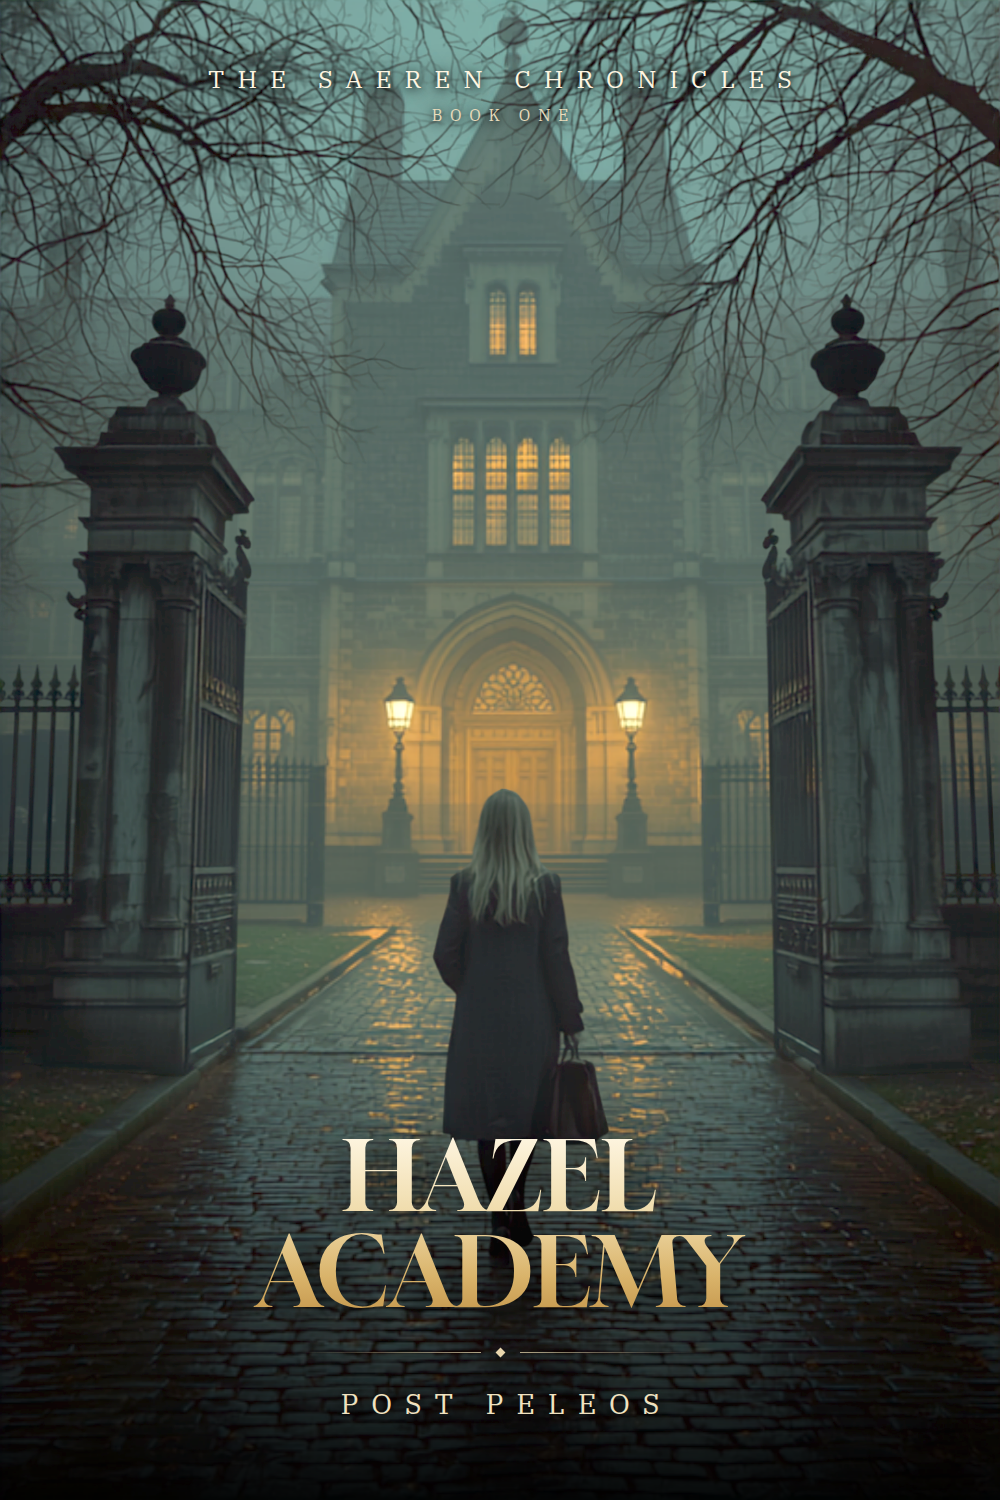
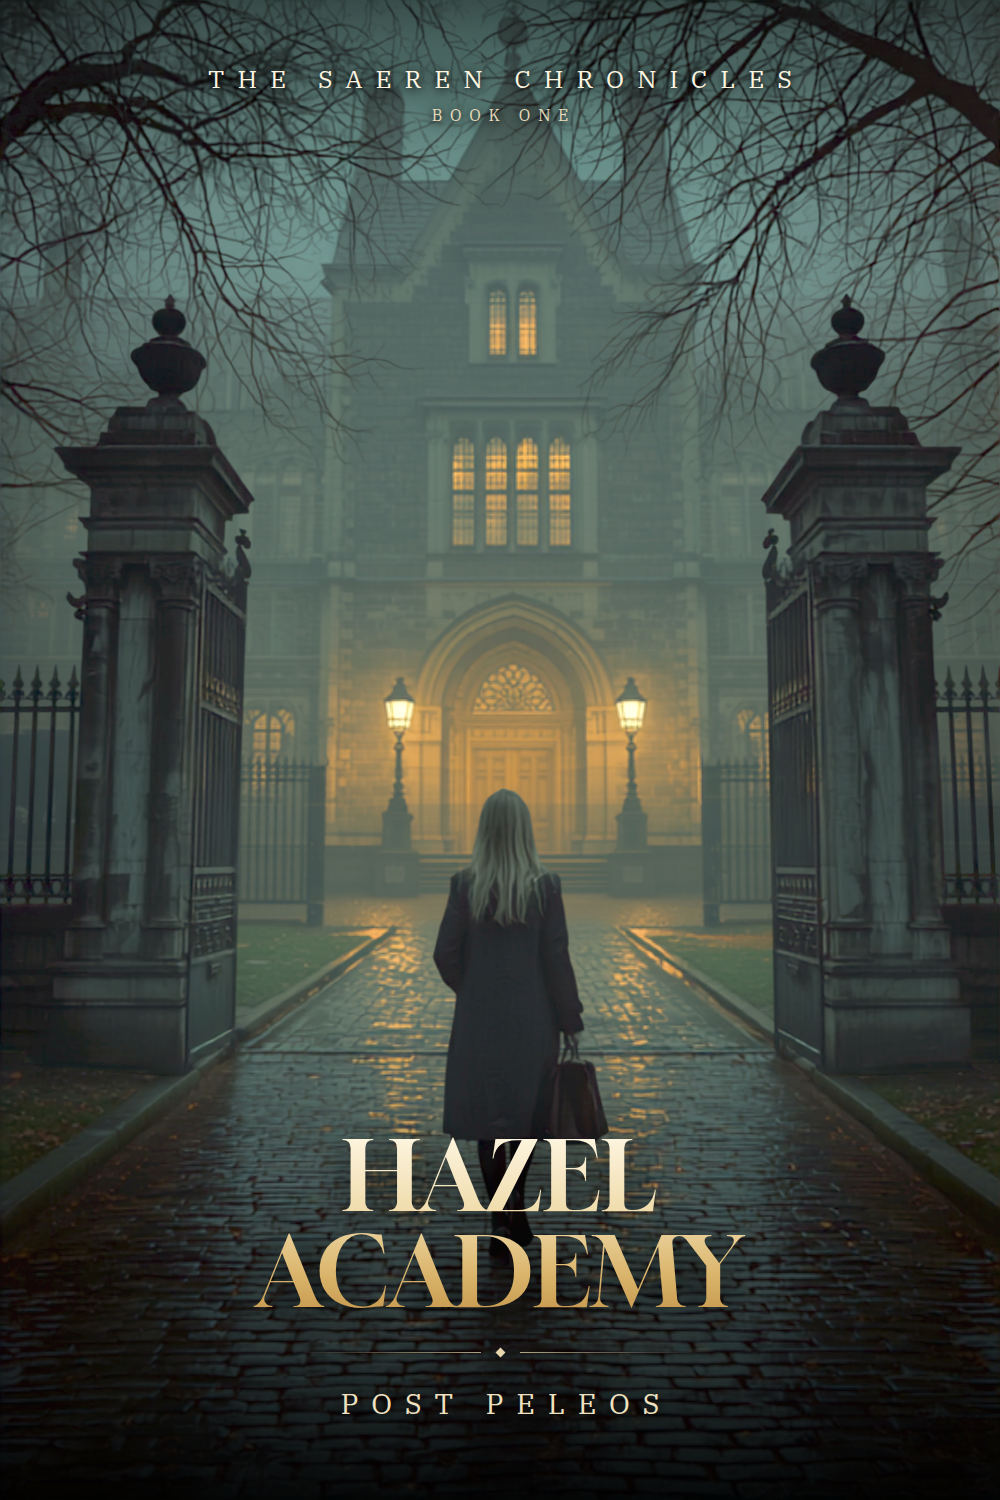
saeren covers: Book Two and Book Three scenes, plus a top scrim on the compositor
Author picked Book Two's scene (at the treeline looking back at Hazel burning) and
asked to see all four Book Three options. All three books now use Book One's
device — her back to us, facing the thing — so the trilogy reads as a set.

Book Three is NOT settled. Of the four options asked for, only two are viewable:
- cavern: the Book One Ch.14 chamber. Best thematic fit, worst file (see below).
- portal: clean full-bleed art, strongest technically.
- wall at dusk: Canva returned a template rather than art, and the inset was too
  small a strip to rescue. Needs regenerating.
- eclipse: never generated — hit the Canva quota limit.

Compositor fix: scrim() now darkens the TOP as well as the bottom. The cavern's lit
ceiling washed the series line out completely; only the bottom was being scrimmed.
All covers re-rendered with it.

Honest caveat on the cavern file: Canva returned it as a template with the art in a
box, so the extracted bed is a crop of that inset upscaled 2.14x from 467x701. It is
fine for judging composition and not fit to print — if the cavern wins it has to be
regenerated clean and full-bleed.

Still not wired into production. tools/compose_wrap.py is untouched and the shipping
covers remain the r18/r13/r10 ones.

Claude-Session: https://claude.ai/code/session_01HKpgCuRB2owZYbrPiL2eBy

Changed region(s): [[0.0, 0.0, 1.0, 0.1227]]

diff --git a/books/saeren/tools/compose_front_cover.py b/books/saeren/tools/compose_front_cover.py
@@ -57,13 +57,20 @@ def lift(im, gamma=0.62, black=10):
     return Image.fromarray((a * 255).astype(np.uint8))
 
 
-def scrim(im, height=0.42, power=2.1):
-    """Darken the bottom so type reads, without flattening the whole image."""
+def scrim(im, height=0.42, power=2.1, top=0.20, top_strength=0.55):
+    """Darken the bottom (title) and the top (series line) so type stays legible.
+
+    The top scrim matters on bright-topped art — the cavern's lit ceiling washed
+    the series line out completely without it.
+    """
     a = np.asarray(im.convert("RGB")).astype(np.float32)
     h = a.shape[0]
     y0 = int(h * (1 - height))
     t = np.linspace(0, 1, h - y0) ** power
     a[y0:] *= (1 - 0.86 * t)[:, None, None]
+    y1 = int(h * top)
+    tt = np.linspace(1, 0, y1) ** 1.6
+    a[:y1] *= (1 - top_strength * tt)[:, None, None]
     return Image.fromarray(np.clip(a, 0, 255).astype(np.uint8))
 
 

diff --git a/books/saeren/delivery-concepts/README.md b/books/saeren/delivery-concepts/README.md
@@ -11,10 +11,25 @@ behind, walking through the open gates toward Hazel, photoreal art with the seri
 typography composited over it. Built by `../tools/compose_front_cover.py` from the
 art bed in `art/`.
 
-Books Two and Three have **no scene chosen yet**. The proposal is to repeat Book
-One's device — her back to us, facing the thing she is walking into — so the three
-read as a set: Book Two the resistance camp in the trees at dusk, Book Three the
-source cavern from Book One Ch.14. Awaiting the author.
+Scenes are chosen (author, 2026-09-01). All three repeat Book One's device — her
+back to us, facing the thing — so they read as a set:
+
+| | scene | file |
+|---|---|---|
+| One | walking through the open gates toward Hazel | `front-book-1.png` |
+| Two | at the treeline looking back at Hazel burning | `front-book-2.png` |
+| Three | **undecided** — cavern vs portal | `front-book-3a-cavern.png`, `front-book-3b-portal.png` |
+
+`TRILOGY-LINEUP.png` shows the set (with the cavern in slot three).
+
+### Book Three is not settled
+Four options were asked for. Only two are viewable:
+- **cavern** — the Book One Ch.14 chamber. Best fit thematically, but see the
+  resolution warning below.
+- **portal** — clean full-bleed art, the strongest technically.
+- **wall at dusk** — Canva returned a template, not art; the inset was too small a
+  strip to rescue. Needs regenerating.
+- **eclipse** — never generated; hit the Canva quota limit.
 
 ## The palette rule (why these are green and amber)
 
@@ -39,10 +54,15 @@ detail intact.
 
 ## Resolution
 
-`front-book-1.png` is 1000x1500 — a mockup, **below print resolution**. Re-render
-the chosen one with `--print` (2452x3703). The type is vector so it re-renders
-genuinely sharp; the Canva art bed still needs upscaling, same tradeoff recorded in
+All of these are 1000x1500 — mockups, **below print resolution**. Re-render the
+chosen ones with `--print` (2452x3703). The type is vector so it re-renders
+genuinely sharp; the Canva art beds still need upscaling, same tradeoff recorded in
 the per-book production notes.
+
+**The cavern is worse than that.** Canva returned it as a template with the art in
+a box, so `art/book-3a-cavern-extracted.png` is a crop of that inset upscaled
+**2.14x** from 467x701. Fine for judging the composition, not fit to print. If the
+cavern is chosen it must be regenerated clean, full-bleed, once quota allows.
 
 ## The earlier abstract concepts
 
